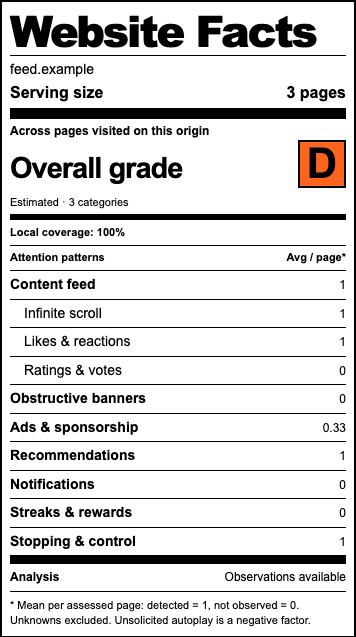
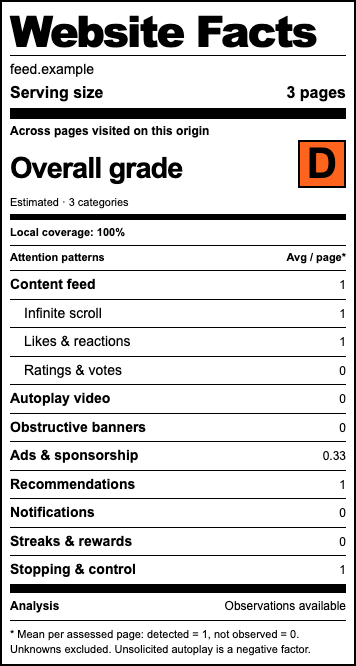
Award positive A grades to assessed sites without harmful signals

Changed region(s): [[0.0309, 0.0, 0.9888, 1.0], [0.7725, 0.0, 0.8034, 0.0298], [0.2163, 0.0, 0.2472, 0.0298]]

diff --git a/extension/lib/detection.js b/extension/lib/detection.js
@@ -10,10 +10,12 @@ export function sanitizeSnapshot(input, preferences) {
   const result = {
     feed: { explicit: input.feed?.explicit === true, candidate: input.feed?.candidate === true,
       ...counts(input.feed, ["items", "reactions", "ratings"]) },
-    media: counts(input.media, ["configured", "observed", "mutedStarts", "alreadyPlaying"]),
+    media: { ...counts(input.media, ["configured", "observed", "mutedStarts", "alreadyPlaying"]),
+      elements: Number.isFinite(input.media?.elements) && input.media.elements >= 0 ? count(input.media.elements) : null },
     infinite: { observed: input.infinite?.observed === true, scrolled: input.infinite?.scrolled === true },
     ui: { ...counts(input.ui, ["overlays", "ads", "recommendations", "notifications", "notificationBadges", "streaks", "controls", "repeatedPrompts"]), obstruction: ratio(input.ui?.obstruction) },
-    coverage: { ...counts(input.coverage, ["frames", "unlabeled", "durationSeconds"]), limited: input.coverage?.limited === true, privateContext: input.coverage?.privateContext === true },
+    coverage: { ...counts(input.coverage, ["frames", "unlabeled", "durationSeconds"]), ready: input.coverage?.ready === true,
+      limited: input.coverage?.limited === true, privateContext: input.coverage?.privateContext === true },
     regions: [], items: [],
   };
   if (preferences.ai && !result.coverage.privateContext) {
@@ -31,16 +33,26 @@ export function sanitizeSnapshot(input, preferences) {
 
 export function ruleFindings(snapshot) {
   const result = Object.fromEntries(CRITERIA.map(({ id }) => [id, unknown()]));
-  const seen = (n, text, absent = "Not observed in this scan") => finding(n ? "detected" : "not_observed", n ? text : absent);
+  const readable = snapshot.coverage.ready && !snapshot.coverage.limited;
+  const complete = readable && snapshot.coverage.frames === 0;
+  const incomplete = !snapshot.coverage.ready ? "Page is loading or has no readable content" :
+    snapshot.coverage.limited ? "DOM scan limit reached" : "Embedded frames were not inspected";
+  // Positive evidence counts even in a partial scan. Missing evidence only
+  // counts as not observed after a usable scan of the page.
+  const seen = (n, text, absent = "Not observed in this scan") => n ? finding("detected", text) :
+    readable ? finding("not_observed", absent) : unknown(incomplete);
   result.feed = snapshot.feed.explicit ? finding("detected", "Feed semantics in the page") :
-    snapshot.feed.candidate ? unknown("Repeated cards; Jev can classify this region") : finding("not_observed", "No feed candidate in the inspected page");
+    snapshot.feed.candidate ? unknown("Repeated cards; Jev can classify this region") : seen(0, "", "No feed candidate in the inspected page");
   for (const [id, n, label] of [["reactions", snapshot.feed.reactions, "reaction controls"], ["ratings", snapshot.feed.ratings, "rating or vote controls"]]) {
     result[id] = snapshot.feed.candidate || snapshot.feed.explicit ? seen(n, `${n} ${label} in feed candidates`) : unknown("No feed identified");
   }
-  result.infinite = snapshot.infinite.observed ? finding("detected", "New feed items arrived after scrolling without Load more", "observation") : unknown(snapshot.infinite.scrolled ? "Automatic continuation not demonstrated" : "Scroll a feed to assess continuation");
-  result.autoplay = snapshot.media.observed ? finding("detected", `${snapshot.media.observed} unsolicited video start(s); ${snapshot.media.mutedStarts} muted. Negative factor.`, "observation") : unknown(
-    snapshot.media.alreadyPlaying ? "Video was already playing when observation began" : snapshot.media.configured ? "Autoplay configured; no unsolicited start observed" : "No unsolicited video start observed during this window");
-  result.banners = snapshot.ui.obstruction >= 0.15 ? finding("detected", `Overlay covers about ${Math.round(snapshot.ui.obstruction * 100)}% of the viewport; purpose may be functional`) : finding("not_observed", "No large obstructive overlay observed");
+  result.infinite = snapshot.infinite.observed ? finding("detected", "New feed items arrived after scrolling without Load more", "observation") :
+    complete && !snapshot.feed.explicit && !snapshot.feed.candidate ? finding("not_observed", "No feed found in the inspected page") :
+    unknown(complete ? snapshot.infinite.scrolled ? "Automatic continuation not demonstrated" : "Scroll a feed to assess continuation" : incomplete);
+  result.autoplay = snapshot.media.observed ? finding("detected", `${snapshot.media.observed} unsolicited video start(s); ${snapshot.media.mutedStarts} muted. Negative factor.`, "observation") :
+    complete && snapshot.media.elements === 0 && !snapshot.media.configured && !snapshot.media.alreadyPlaying ? finding("not_observed", "No video elements found in the inspected page") : unknown(
+      !complete ? incomplete : snapshot.media.alreadyPlaying ? "Video was already playing when observation began" : snapshot.media.configured ? "Autoplay configured; no unsolicited start observed" : "No unsolicited video start observed during this window");
+  result.banners = seen(snapshot.ui.obstruction >= 0.15, `Overlay covers about ${Math.round(snapshot.ui.obstruction * 100)}% of the viewport; purpose may be functional`, "No large obstructive overlay observed");
   result.ads = seen(snapshot.ui.ads, `${snapshot.ui.ads} visible ad or sponsorship label(s)`);
   result.recommendations = seen(snapshot.ui.recommendations, "Recommendation wording visible; personalization unverified");
   const notificationEvidence = [];

diff --git a/tests/grading.test.js b/tests/grading.test.js
@@ -1,7 +1,8 @@
 import test from "node:test";
 import assert from "node:assert/strict";
 import { gradeAssessment } from "../extension/lib/grading.js";
-import { summarize } from "../extension/lib/model.js";
+import { summarize, retainDetected } from "../extension/lib/model.js";
+import { ruleFindings, sanitizeSnapshot } from "../extension/lib/detection.js";
 
 const observed = (detected = 0, assessed = 1, unknown = 0) => ({ detected, assessed, unknown });
 const assessedSummary = () => ({ assessed: 1, criteria: Object.fromEntries(
@@ -26,15 +27,87 @@ test("infinite scroll, autoplay and streaks count once; descriptive criteria add
   assert.deepEqual(grade.categories.find(category => category.id === "engagement").signals, ["infinite", "autoplay", "streaks"]);
 });
 
-test("unobserved or incomplete scans cannot receive an A; positive partial grades retain uncertainty", () => {
+test("empty scans stay ungraded; untested behavior keeps zero-harm grades provisional", () => {
   assert.equal(gradeAssessment({ assessed: 0, criteria: {} }).letter, null);
   assert.equal(gradeAssessment({ assessed: 1, criteria: {} }).letter, null);
   const summary = assessedSummary();
   summary.criteria.autoplay = observed(0, 0, 1);
-  assert.equal(gradeAssessment(summary).letter, null);
+  assert.equal(gradeAssessment(summary).letter, "A");
+  assert.equal(gradeAssessment(summary).partial, true);
   summary.criteria.ads = observed(1);
   const grade = gradeAssessment(summary);
   assert.equal(grade.letter, "B"); assert.equal(grade.partial, true); assert.equal(grade.unknown, 1);
+});
+
+const cleanScan = { coverage: { ready: true }, media: { elements: 0 } };
+const assess = input => {
+  const snapshot = sanitizeSnapshot(input, {});
+  return summarize({ pages: { one: { assessedAt: 1, coverage: snapshot.coverage, criteria: ruleFindings(snapshot) } } });
+};
+
+test("a readable page with no feed, videos or harmful signals earns A without AI", () => {
+  const summary = assess(cleanScan);
+  const grade = gradeAssessment(summary);
+  assert.equal(grade.letter, "A"); assert.equal(grade.partial, false);
+  assert.equal(summary.criteria.autoplay.assessed, 1);
+  assert.equal(summary.criteria.autoplay.detected, 0);
+  assert.equal(summary.criteria.infinite.assessed, 1);
+  assert.equal(summary.criteria.infinite.detected, 0);
+  assert.equal(summary.criteria.hate.assessed, 0);
+});
+
+test("a feed or untested video can earn provisional A while its behavior stays unknown", () => {
+  for (const input of [
+    { ...cleanScan, feed: { explicit: true } },
+    { ...cleanScan, media: { elements: 1, alreadyPlaying: 1 } },
+    { ...cleanScan, media: {} }, // Missing element counts must not be interpreted as no videos.
+  ]) {
+    const summary = assess(input);
+    const grade = gradeAssessment(summary);
+    assert.equal(grade.letter, "A"); assert.equal(grade.partial, true);
+    assert.ok(summary.criteria.infinite.unknown || summary.criteria.autoplay.unknown);
+  }
+});
+
+test("loading, blank, truncated and embedded-only scans do not earn a clean grade", () => {
+  for (const coverage of [{}, { ready: false }, { ready: true, limited: true }, { ready: false, frames: 1 }]) {
+    assert.equal(gradeAssessment(assess({ ...cleanScan, coverage })).letter, null);
+    const grade = gradeAssessment(assess({ ...cleanScan, coverage, ui: { ads: 1 } }));
+    assert.equal(grade.letter, "B"); assert.equal(grade.partial, true);
+  }
+});
+
+test("an uninspected embed keeps a readable page's grade provisional without suppressing it", () => {
+  const input = { ...cleanScan, coverage: { ready: true, frames: 1 } };
+  const summary = assess(input);
+  const grade = gradeAssessment(summary);
+  assert.equal(grade.letter, "A"); assert.equal(grade.partial, true);
+  assert.equal(summary.criteria.autoplay.assessed, 0);
+  const harmful = assess({ ...input, ui: { ads: 1, recommendations: 1, notificationBadges: 1 }, media: { observed: 1 } });
+  assert.equal(gradeAssessment(harmful).letter, "F");
+  assert.equal(gradeAssessment(harmful).partial, true);
+});
+
+test("a clean observed page keeps a provisional A when another visited page is unassessed", () => {
+  const snapshot = sanitizeSnapshot(cleanScan, {});
+  const assessment = { pages: {
+    one: { assessedAt: 1, coverage: snapshot.coverage, criteria: ruleFindings(snapshot) },
+    two: { criteria: {} },
+  } };
+  const grade = gradeAssessment(summarize(assessment));
+  assert.equal(grade.letter, "A"); assert.equal(grade.partial, true);
+  assert.equal(grade.unknown, 4);
+});
+
+test("new harmful evidence replaces A and later clean scans or positive controls cannot erase it", () => {
+  const page = { assessedAt: 1, criteria: ruleFindings(sanitizeSnapshot(cleanScan, {})) };
+  const grade = () => gradeAssessment(summarize({ pages: { one: page } })).letter;
+  assert.equal(grade(), "A");
+  const harmful = { ...cleanScan, ui: { ads: 1, recommendations: 1, notificationBadges: 1 }, media: { elements: 1, observed: 1 } };
+  page.criteria = retainDetected(page.criteria, ruleFindings(sanitizeSnapshot(harmful, {})));
+  assert.equal(grade(), "F");
+  page.criteria = retainDetected(page.criteria, ruleFindings(sanitizeSnapshot({ ...cleanScan, ui: { controls: 1 } }, {})));
+  assert.equal(grade(), "F");
 });
 
 test("categories accumulate across pages without averaging away or duplicating detected harm", () => {

diff --git a/extension/collector.js b/extension/collector.js
@@ -214,7 +214,7 @@ export function createCollector(send = message => chrome.runtime.sendMessage(mes
       feed: { explicit: feeds.length > 0, candidate: feedCandidate, items: visibleCards.length,
         reactions: controls.filter(el => inFeed(el) && reaction.test(names.get(el))).length,
         ratings: controls.filter(el => inFeed(el) && rating.test(names.get(el))).length },
-      media: { ...mediaCounts }, infinite: { observed: continuation, scrolled },
+      media: { ...mediaCounts, elements: videos.length }, infinite: { observed: continuation, scrolled },
       ui: { overlays: overlays.length, obstruction: covered / 100, repeatedPrompts,
         ads: new Set(labels.filter(text => /^(ad|advertisement|sponsored|promoted|paid partnership|sponsored content)(\s*[:·|].*)?$/i.test(text))).size,
         recommendations: labels.filter(text => /^(for you|recommended( for you)?|suggested( for you)?|because you (watched|liked).*)$/i.test(text)).length,
@@ -226,6 +226,8 @@ export function createCollector(send = message => chrome.runtime.sendMessage(mes
         controls: labels.filter(text => control.test(text)).length },
       coverage: { frames: shown.filter(el => el.matches("iframe,frame")).length,
         unlabeled: controls.filter(el => !names.get(el)).length, limited: all.length >= 5000,
+        ready: document.readyState === "complete" && shown.some(el => el.matches("img,video") ||
+          [...el.childNodes].some(node => node.nodeType === Node.TEXT_NODE && node.textContent.trim())),
         durationSeconds: Math.round((Date.now() - startedAt) / 1000), privateContext: privateContext() },
       regions: [], items: [],
     };

diff --git a/extension/popup.html b/extension/popup.html
@@ -38,7 +38,7 @@
       <h3>How the grade works</h3>
       <p>Vlada’s scale: A = 0 categories, B = 1, C = 2, D = 3, F = 4. Each category counts once across visited pages; per-page averages do not change its weight.</p>
       <ul id="grade-breakdown"></ul>
-      <p>The grade is an estimate from observable signals. Ads, recommendation wording and notification requests do not verify the business model, ranking algorithm or notification persistence. Other label criteria do not add penalties. Partial grades can worsen as unknown categories are assessed; an unresolved scan cannot earn A.</p>
+      <p>The grade is an estimate from observable signals. Ads, recommendation wording and notification cues do not verify the business model, ranking algorithm or notification persistence. Other label criteria do not add penalties. A means no harmful categories were detected in the observed sample; it is provisional while any category remains unassessed. An empty or failed scan stays ungraded. Grades can change as more evidence arrives.</p>
       <p>Based on <a href="https://www.linkedin.com/pulse/weve-been-talking-big-techs-tobacco-moment-years-lets-vlada-jpt2c" target="_blank" rel="noopener noreferrer">Vlada Bortnik’s four-category proposal</a>.</p>
       <h3>Page observations</h3>
       <p id="ai-status"></p><p id="scope-note"></p><ul id="finding-details"></ul>

diff --git a/extension/lib/grading.js b/extension/lib/grading.js
@@ -20,8 +20,10 @@ export function gradeAssessment(summary) {
   });
   const count = categories.filter(category => category.result === "detected").length;
   const unknown = categories.filter(category => category.result === "unknown").length;
-  // Do not award an A to an empty or unresolved scan. Positive signals can
-  // establish a provisional grade without treating the missing categories as clean.
-  const letter = summary.assessed > 0 && (count > 0 || unknown === 0) ? LETTERS[count] : null;
-  return { letter, count, unknown, partial: unknown > 0, categories };
+  // Grade what has been observed, including zero harmful categories. Untested
+  // behavior keeps the grade provisional; an empty/failed scan has no evidence.
+  const hasEvidence = count > 0 || categories.some(category =>
+    category.criteria.some(id => summary.criteria?.[id]?.assessed > 0));
+  const letter = summary.assessed > 0 && hasEvidence ? LETTERS[count] : null;
+  return { letter, count, unknown, partial: unknown > 0 || summary.partialCoverage === true, categories };
 }

diff --git a/extension/popup.js b/extension/popup.js
@@ -20,7 +20,8 @@ function renderGrade(summary) {
   const score = $("#score-value");
   score.textContent = grade.letter || "—";
   score.dataset.grade = grade.letter || "";
-  const note = grade.letter ? `Estimated · ${grade.count} ${grade.count === 1 ? "category" : "categories"}${grade.partial ? " · partial" : ""}` :
+  const note = grade.letter === "A" ? `${grade.partial ? "Provisional" : "Estimated"} · No harmful categories detected` :
+    grade.letter ? `Estimated · ${grade.count} ${grade.count === 1 ? "category" : "categories"}${grade.partial ? " · partial" : ""}` :
     summary.assessed ? "More evidence needed to assign a grade." : "Analyze a page to see its grade.";
   $("#score-note").textContent = note;
   score.setAttribute("aria-label", grade.letter ? `Estimated grade ${grade.letter}. ${note}` : "Not enough evidence to grade");

diff --git a/extension/lib/model.js b/extension/lib/model.js
@@ -1,4 +1,4 @@
-export const DETECTOR_VERSION = "2";
+export const DETECTOR_VERSION = "3";
 export const MODEL = "jev-1.13.0";
 export const THRESHOLD = 0.9;
 export const CRITERIA = [
@@ -83,6 +83,7 @@ export function summarize(assessment) {
   }
   return {
     visited: pages.length, assessed: pages.filter(page => page.assessedAt).length,
+    partialCoverage: pages.some(page => !page.assessedAt || page.coverage?.ready === false || page.coverage?.limited || page.coverage?.frames > 0),
     criteria, updatedAt: assessment?.updatedAt || null, enabled: Boolean(assessment?.enabled),
     latest: pages.sort((a, b) => b.lastVisitedAt - a.lastVisitedAt)[0] || null,
   };

diff --git a/README.md b/README.md
@@ -13,17 +13,17 @@ Three illustrations using the real popup and synthetic observations on fictional
 
 <table>
   <tr>
-    <th>Reading with ads</th>
+    <th>Calm reading</th>
     <th>Recommended feed</th>
     <th>All four categories</th>
   </tr>
   <tr>
-    <td valign="top"><a href="docs/examples/reading-with-ads.png"><img src="docs/examples/reading-with-ads.png" width="280" alt="Example B grade, partial: ads detected on two of three pages, average 0.67." /></a></td>
+    <td valign="top"><a href="docs/examples/calm-reading.png"><img src="docs/examples/calm-reading.png" width="280" alt="Example A grade: three readable pages with no harmful categories detected and stopping controls available." /></a></td>
     <td valign="top"><a href="docs/examples/recommended-feed.png"><img src="docs/examples/recommended-feed.png" width="280" alt="Example D grade: ads, recommendations and infinite scroll indicate three attention categories." /></a></td>
     <td valign="top"><a href="docs/examples/all-four-categories.png"><img src="docs/examples/all-four-categories.png" width="280" alt="Example F grade: all four categories indicated, including autoplay and unread notification badges." /></a></td>
   </tr>
   <tr>
-    <td><strong>B · partial</strong> — one category observed</td>
+    <td><strong>A</strong> — no harmful categories observed</td>
     <td><strong>D</strong> — three categories observed</td>
     <td><strong>F</strong> — all four categories observed</td>
   </tr>
@@ -54,11 +54,11 @@ The **Website Facts** popup collects real observations. It combines local DOM an
 | Criterion | Implemented method |
 | --- | --- |
 | Content feed | Explicit feed semantics; repeated article/card candidates; Jev classification of ambiguous structure. |
-| Infinite scroll | New item identities after a near-end scroll, without a recent Load more action. |
+| Infinite scroll | New item identities after a near-end scroll, without a recent Load more action. No feed in a complete scan counts as not observed. |
 | Likes, hearts, reactions | Named interactive controls within feed candidates. |
 | Stars, ratings, votes | Named interactive rating/vote controls within feed candidates. |
 | Political topics, hateful language, provocative framing | Three independent Jev questions for sampled visible feed items; requires separate feed-text opt-in. |
-| Autoplay video | Starts without a matching recent play action. Muted starts count; already-playing video and autoplay attributes alone remain unknown. |
+| Autoplay video | Starts without a matching recent play action. Muted starts count; already-playing video and autoplay attributes alone remain unknown. No video elements in a complete scan counts as not observed. |
 | Obstructive banners | Large visible fixed/sticky panels and dialogs, with approximate viewport obstruction. |
 | Ads and sponsorship | Visible ad/sponsorship labels. |
 | Deceptive prompts | Jev classifies wording from candidate prompts and action labels. |
@@ -75,7 +75,7 @@ The **Website Facts** popup collects real observations. It combines local DOM an
 | Persistent notifications | Notification request wording or an unread notification/activity badge; frequency and push delivery remain unverified |
 | Infinite engagement | Infinite scroll, unsolicited autoplay, or streaks/rewards; together they count once |
 
-The grade is an **estimate**: these signals do not verify a company's business model, its ranking algorithm or notification persistence. An empty or unresolved scan cannot earn A. With detected categories and missing evidence, the grade is marked partial and may worsen as more categories are observed. A requires all mapped signals to have been assessed without detections; it still describes the observed sample, not proof that a website is harmless. Inspection details show the four contributions and link to the article. No weights or probability averaging are used for the letter grade.
+The grade is an **estimate**: these signals do not verify a company's business model, its ranking algorithm or notification persistence. **A rewards an analyzed page with no harmful categories detected.** A readable page with no feed or video can earn A immediately, without Jev. If a feed, video or embedded frame remains unassessed, the label shows **Provisional A** while keeping those findings unknown. Blank, loading, failed or truncated scans without usable evidence stay ungraded. Grades can worsen as more categories are observed; positive controls do not cancel detected harms. Inspection details show the four contributions and link to the article. Grades describe the observed sample, not proof that an entire website is harmless. No weights or probability averaging are used for the letter grade.
 
 Other criteria remain descriptive and do not add grade penalties. A feed or political topic alone does not reduce the grade. Observed unsolicited autoplay contributes to the infinite-engagement category. Model probability is experimental, not a calibrated accuracy, severity or harm score. Findings use a 90% positive threshold, results at 10% or below can count as not observed, and the middle remains unknown. A written AI explanation is not required.
 
@@ -102,7 +102,7 @@ Keep the terminal running. Vite and CRXJS build into `dist/dev` as you edit `ext
 4. Open a regular website and click the extension. It begins a two-minute observation window. Scroll and use the page normally, then reopen the popup to see findings.
 5. Enable **Assess this site as I browse** to collect on future visits and route changes. Chrome asks for that site's access and navigation permission. Other origins need their own opt-in.
 
-If you already have the extension loaded, **reload it once on `chrome://extensions` after this upgrade**, then reload the website tab. New permissions and the collector require a fresh extension instance.
+If you already have the extension loaded, **reload it once on `chrome://extensions` after this upgrade**, then reload the website tab so the updated collector runs.
 
 - **Layout preview:** [http://127.0.0.1:5173/popup.html](http://127.0.0.1:5173/popup.html). Updates on save; Chrome extension APIs are unavailable here. Settings preview disables credential entry.
 - **Real extension:** CSS updates live; JavaScript/HTML changes refresh the popup. Reopen it if Chrome closes it. Background/manifest changes can reload the whole extension; refresh the inspected page to replace its collector.
@@ -158,7 +158,7 @@ npm test
 npm run build
 ```
 
-Tests cover encrypted storage and failure states, content-script authorization, navigation/page identity, reset and late responses, input bounds, redaction, uncertainty, mocked Jev transport, all five grade boundaries, category deduplication, incomplete grading coverage, and notification badge positives/false positives. They require no API key and make no paid requests.
+Tests cover encrypted storage and failure states, content-script authorization, navigation/page identity, reset and late responses, input bounds, redaction, uncertainty, mocked Jev transport, all five grade boundaries, category deduplication, positive and provisional A grades, incomplete grading coverage, and notification badge positives/false positives. They require no API key and make no paid requests.
 
 For manual checks, visit [the local fixture](http://127.0.0.1:5173/fixture.html?page=one) while Vite runs. This synthetic page is excluded from the release build. Avoid editing source during a navigation test because hot reload resets the fixture.
 

diff --git a/docs/releases/v0.2.1.md b/docs/releases/v0.2.1.md
@@ -1,0 +1,15 @@
+Clean-looking pages can now earn a positive **A** grade. Previously, autoplay and infinite scroll stayed unknown even on pages with no videos or feeds, leaving those sites ungraded.
+
+- A readable scan with no harmful categories detected receives A without requiring Jev.
+- Untested behavior or embedded content keeps the grade **provisional**, and unknown criteria remain hidden.
+- Empty, loading, failed or truncated scans without usable evidence stay ungraded.
+- Newly observed harmful behavior lowers the grade; stopping controls do not cancel detected harms.
+- The README now includes a positive A label alongside D and F examples.
+
+Download **nutrition-label-chrome.zip**, extract it and load the **nutrition-label** folder at `chrome://extensions` using **Developer mode → Load unpacked**. For an existing installation, replace the files inside the same folder, click **Reload**, and refresh website tabs. Session-only Jev keys need to be entered again after reloading.
+
+The ZIP includes `INSTALL.txt` and dependency notices. Local detection requires no API key or development server. The accompanying SHA-256 file verifies the archive.
+
+Validation: all 30 automated tests pass. Browser checks cover a clean page receiving A, an empty page remaining ungraded, and provisional A grades on both user-reported sites, Imbue and michael.romanenko.kg, with Jev disabled. Remaining coverage gaps stay visible in Inspection details.
+
+The idea and grading approach are based on [Vlada Bortnik's nutrition-label proposal](https://www.linkedin.com/pulse/weve-been-talking-big-techs-tobacco-moment-years-lets-vlada-jpt2c). Grades describe the observed sample and remain experimental.

diff --git a/docs/detection-research.md b/docs/detection-research.md
@@ -228,7 +228,7 @@ Retain distinct concepts internally:
 | `severity` | Separate impact rubric, still to be designed. |
 | `provenance` | Local evidence references, detector/prompt version and resolved model version for debugging and evaluation. |
 
-A high-probability result can be shown with a short criterion label and probability alone. Optional details can come later. Unknowns, request failures and inaccessible content must not turn into clean grades. We should defer an overall grade when coverage is insufficient.
+A high-probability result can be shown with a short criterion label and probability alone. Optional details can come later. Unknowns remain unassessed in the criterion averages. As of detector version 3, a readable page with zero detected harmful categories receives A, marked provisional when behavior or embedded content remains unassessed. This rewards the observed absence of harmful signals while retaining uncertainty. Blank, loading, failed and truncated scans without usable evidence stay ungraded. A full scan with no feed or video can record those behaviors as not observed; it does not require proving they can never appear.
 
 Avoid combining probabilities from correlated cards with a naive independence formula. Count distinct detected units in code and calibrate any page-level aggregation separately. Likewise, autoplay in a feed can contribute to multiple descriptions without receiving duplicate penalties later.
 

diff --git a/docs/examples/README.md b/docs/examples/README.md
@@ -2,7 +2,7 @@
 
 These screenshots use the real popup HTML, CSS, renderer and grading rules with synthetic observations on fictional `.example` sites. They are illustrations, not assessments of real websites. Unknown criteria are hidden as in the extension.
 
-- **Reading with ads — B, partial:** ads on two of three pages; other categories remain unresolved or unobserved.
+- **Calm reading — A:** three readable pages with no feed, video or harmful category signals; stopping controls are available.
 - **Recommended feed — D:** ads, recommendation wording and infinite scroll indicate three categories. Ads appear on one of three pages.
 - **All four categories — F:** a feed also has autoplay and unread notification badges. Ads appear on one of four pages, and notification badges on two of four.
 
